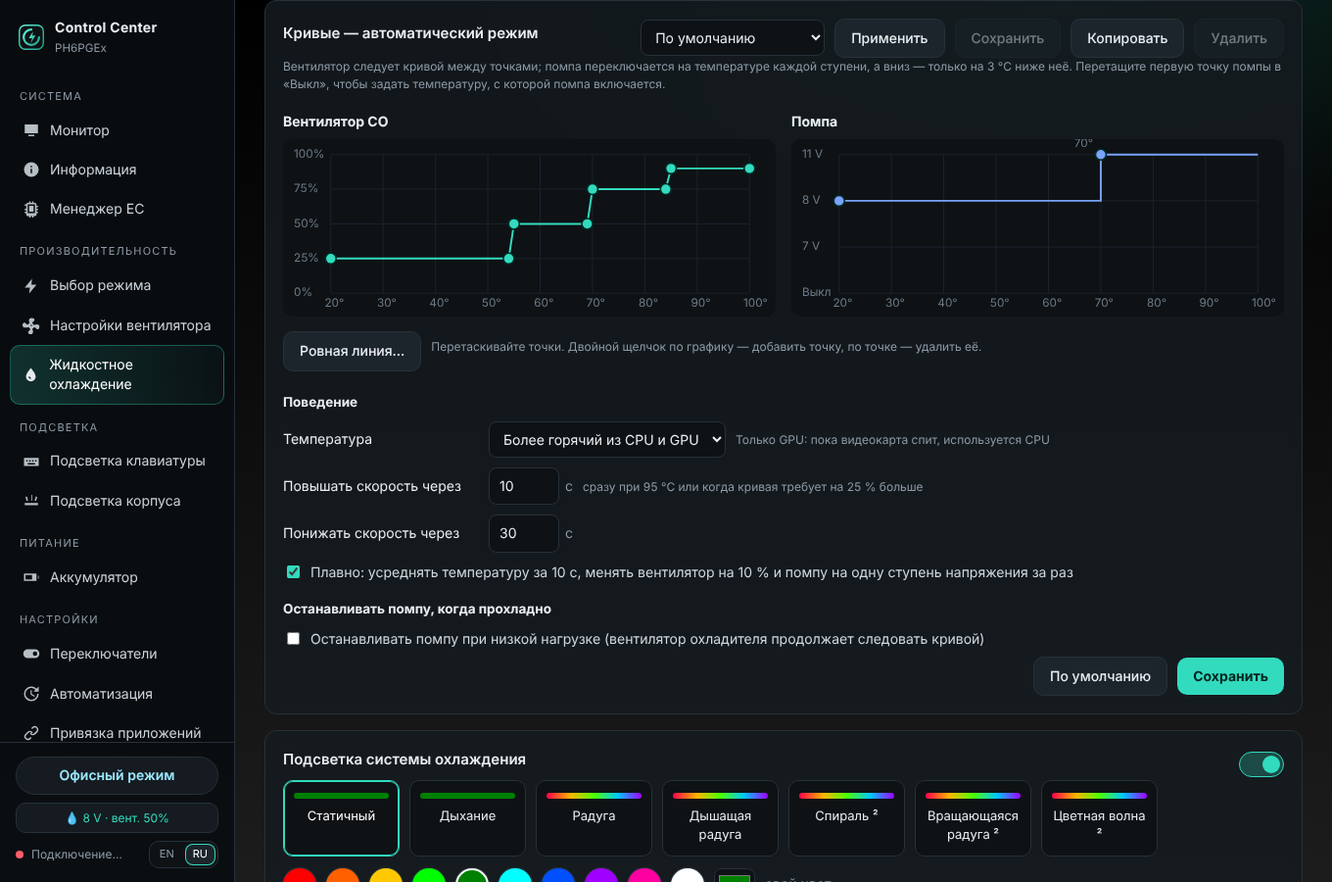
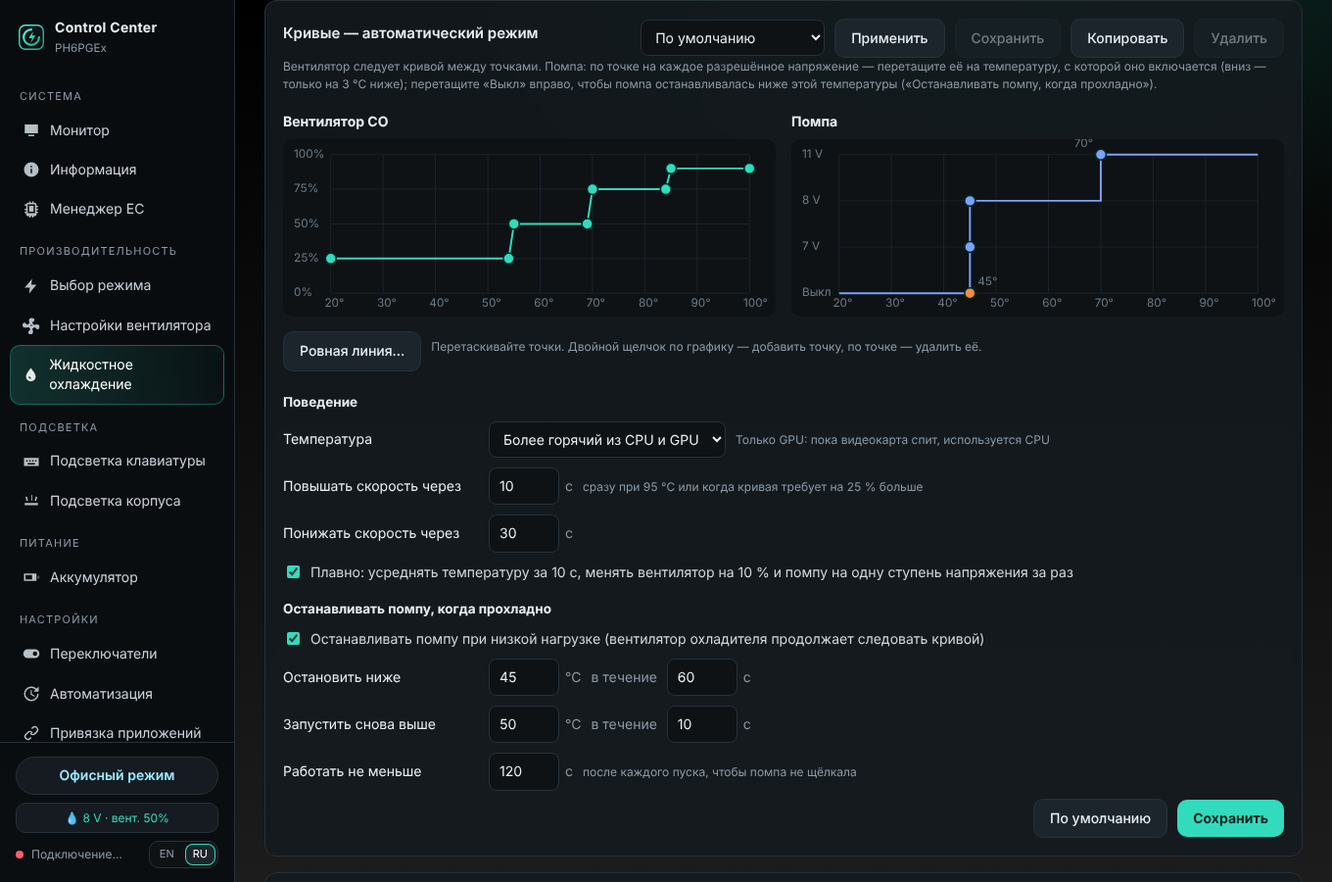
1.6.8: automatic profile switching, liquid cooler curves and profiles, own pump voltage limits

diff --git a/uwccd/web/app.js b/uwccd/web/app.js
@@ -497,7 +497,13 @@ function drawCurve() {
   const col = fanKind === "GPU" ? "var(--gpu)" : "var(--acc)";
   let circles = "";
   pts.forEach(p => { circles += `<circle class="pt ${fanKind === "GPU" ? "gpu" : ""}" data-i="${p.i}" r="7" cx="${CX(Math.max(20, p.i === 0 ? 20 : p.UpT))}" cy="${CY(p.Duty)}"><title>${t("Level")} ${p.i}: ${p.i ? p.UpT + "°C" : t("start")} → ${p.Duty}%</title></circle>`; });
-  svg.innerHTML = g + `<path d="${path}" fill="none" stroke="${col}" stroke-width="2.5"/>` + circles;
+  let dl = "";
+  const dp = curveDrag != null ? pts.find(p => p.i === curveDrag) : null;
+  if (dp) {                                       // while dragging: the point's temperature and speed next to it
+    const x = CX(Math.max(20, dp.i === 0 ? 20 : dp.UpT)), y = CY(dp.Duty), right = x < 170, down = y < 45;
+    dl = `<text class="draglbl" x="${right ? x + 12 : x - 12}" y="${down ? y + 28 : y - 14}" text-anchor="${right ? "start" : "end"}">${dp.i ? dp.UpT + " °C" : t("start")} · ${dp.Duty} %</text>`;
+  }
+  svg.innerHTML = g + `<path d="${path}" fill="none" stroke="${col}" stroke-width="2.5"/>` + circles + dl;
   drawCurveNow();
   // the drag state lives outside drawCurve(): the SVG is re-rendered on every move
   svg.onpointerdown = e => {
@@ -523,7 +529,8 @@ function drawCurve() {
   };
   svg.onpointerup = svg.onpointercancel = e => {
     if (curveDrag != null && svg.hasPointerCapture(e.pointerId)) svg.releasePointerCapture(e.pointerId);
-    curveDrag = null;
+    const was = curveDrag; curveDrag = null;
+    if (was != null) drawCurve();
   };
 }
 // red dot: the fan's current temperature and speed, on the table that is active now (needs full monitoring)
@@ -536,12 +543,18 @@ function drawCurveNow() {
   const temp = gpu ? (m.gpu && !m.gpu.asleep ? m.gpu.temp : null) : m.cpu && m.cpu.temp;
   const duty = gpu ? m.fans.gpu_duty : m.fans.cpu_duty, rpm = gpu ? m.fans.gpu_rpm : m.fans.cpu_rpm;
   if (temp == null || duty == null) return;
-  const x = CX(Math.max(20, Math.min(100, temp))), y = CY(Math.max(0, Math.min(100, duty)));
-  const label = `${temp} °C · ${rpm != null ? rpm + " " + t("rpm") : duty + " %"}`;
+  // the dot lies on the curve at this sensor's temperature; the label has the real speed. When the fan runs clearly
+  // faster than its own curve, the EC drives it by the other side (on many models both fans follow the hotter one).
+  const pts = activePts(); let lvl = pts[0];
+  for (const p of pts) if (p.i === 0 || p.UpT <= temp) lvl = p;
+  const own = lvl ? lvl.Duty : duty;
+  const x = CX(Math.max(20, Math.min(100, temp))), y = CY(Math.max(0, Math.min(100, own)));
+  const by = duty > own + 3 ? " " + t("(driven by {0})", gpu ? "CPU" : "GPU") : "";
+  const label = `${temp} °C · ${rpm != null ? rpm + " " + t("rpm") : duty + " %"}${by}`;
   const c = document.createElementNS("http://www.w3.org/2000/svg", "circle");
   c.setAttribute("class", "now"); c.setAttribute("r", "6"); c.setAttribute("cx", x); c.setAttribute("cy", y);
   const tt = document.createElementNS("http://www.w3.org/2000/svg", "title");
-  tt.textContent = t("Now: {0} °C · {1} %", temp, duty) + (rpm != null ? ` · ${rpm} ${t("rpm")}` : ""); c.append(tt);
+  tt.textContent = t("Now: {0} °C · {1} %", temp, duty) + (rpm != null ? ` · ${rpm} ${t("rpm")}` : "") + by; c.append(tt);
   const tx = document.createElementNS("http://www.w3.org/2000/svg", "text"), left = x > 470, up = y > 246;
   tx.setAttribute("class", "now nowlbl"); tx.setAttribute("x", left ? x - 10 : x + 10); tx.setAttribute("y", up ? y - 12 : y + 22);
   tx.setAttribute("text-anchor", left ? "end" : "start"); tx.textContent = label;
@@ -1306,7 +1319,7 @@ function drawCurves(L) {
   $("#lc-own-label").textContent = t("Own curve for the mode “{0}” (otherwise the common curve)", t(LC_CURVE_NAME[lcTab] || lcTab));
   $("#lc-curves-title").textContent = laptop ? t("Curves — Follow the laptop") : c.mode === "ec" ? t("Curves — view only (Controller: used when the EC publishes no targets)") : t("Curves — Automatic");
   $("#lc-curves-hint").textContent = laptop ? t("The cooler uses the curve of the laptop's current mode (●) if it has its own (✎), otherwise the common curve. The common curve is also the curve of the Automatic mode.")
-    : t("The fan follows the curve between its points; the pump switches at the temperature of each step and goes down only 3 °C below it. Drag the first pump point to Off to set the temperature the pump starts at.");
+    : t("The fan follows the curve between its points. Pump: one point per allowed voltage — drag it to the temperature it starts at (a step down waits until 3 °C below it); drag Off to the right to stop the pump below that temperature (Stop the pump when it is cool).");
   const src = pick ? pick.curves : L.curves;
   const key = own && src[lcTab] ? lcTab : "common";
   const set = JSON.parse(JSON.stringify(src[key] || src.common));
@@ -1370,6 +1383,10 @@ function lcFanAt(set, tc) {
   return f[f.length - 1][1];
 }
 function lcPumpAt(set, tc) { let v = set.pump[0][1]; for (const [t0, v0] of set.pump.slice(1)) if (tc >= t0) v = v0; return v; }
+function lcDragLabel(g, P, x, y, text) {          // while dragging: the point's values next to it
+  const right = x < P.left + 150, down = y < P.top + 30;     // above-left: the curves rise to the right
+  g.append(lcEl("text", { x: right ? x + 12 : x - 12, y: down ? y + 28 : y - 14, class: "draglbl", "text-anchor": right ? "start" : "end" }, text));
+}
 function lcPlot(w, hgt, ymin, ymax) {
   const P = { left: 62, right: 606, top: 20, bot: hgt - 30 };
   P.x = tc => P.left + (tc - LCX0) / (LCX1 - LCX0) * (P.right - P.left);
@@ -1394,13 +1411,16 @@ function lcFanEditor(set, key, readonly, L) {
       d.append(lcEl("title", {}, `${p[0]} °C · ${p[1]} %`));
       dots.append(d);
     });
+    if (lcDrag && lcDrag.svg === svg && pts[lcDrag.i]) {
+      const p = pts[lcDrag.i]; lcDragLabel(dots, P, P.x(Math.max(LCX0, p[0])), P.y(p[1]), `${p[0]} °C · ${p[1]} %`);
+    }
   };
   redraw();
   // the dots are redrawn on every move: the svg itself holds the pointer (as in the laptop fan curve)
   if (!readonly) {
     svg.addEventListener("pointerdown", ev => {
       const c = ev.target.closest && ev.target.closest(".pt"); if (!c) return;
-      ev.preventDefault(); svg.setPointerCapture(ev.pointerId); lcDrag = { i: +c.dataset.i };
+      ev.preventDefault(); svg.setPointerCapture(ev.pointerId); lcDrag = { i: +c.dataset.i, svg };
     });
     svg.addEventListener("pointermove", ev => {
       if (!lcDrag) return;
@@ -1432,63 +1452,94 @@ function lcFanEditor(set, key, readonly, L) {
   });
   return h("div", { class: "lc-ed" }, h("h4", {}, t("Cooler fan")), svg);
 }
+// Pump: one point per allowed voltage (7 / 8 / 11 V, or the own limits), moved only along the temperature: the
+// temperature from which the pump runs at that voltage or more. A voltage whose point sits on the next one is not used.
+// The Off point is "Stop the pump when it is cool": at the left edge it is off; dragged right (30..85 °C) the pump
+// stops below that temperature and starts again a few degrees above it.
+function lcPumpSlots(st, run) {                  // curve steps -> start temperature of every allowed voltage
+  const steps = st.filter(s0 => s0[1]);
+  const slots = run.map(v => { const s0 = steps.find(x => x[1] >= v); return s0 ? Math.max(LCX0, s0[0]) : LCX1; });
+  slots[0] = LCX0;
+  for (let k = 1; k < slots.length; k++) slots[k] = Math.max(slots[k], slots[k - 1]);
+  return slots;
+}
+function lcSlotsToSteps(slots, run) {            // start temperatures -> curve steps (unused voltages dropped)
+  const out = [];
+  run.forEach((v, k) => { if (k === run.length - 1 || slots[k + 1] > slots[k]) out.push([out.length ? slots[k] : 0, v]); });
+  return out;
+}
 function lcPumpEditor(set, key, readonly, L) {
-  const W = 640, H = 230, lv = S.liquid.pump_levels, P = lcPlot(W, H, 0, lv.length - 1), svg = lcSvg(W, H), st = set.pump;
-  const yi = v => lv.indexOf(v);
+  const W = 640, H = 230, run = S.liquid.pump_running || [7, 8, 11], lv = [0, ...run];
+  const P = lcPlot(W, H, 0, lv.length - 1), svg = lcSvg(W, H), yi = v => Math.max(0, lv.indexOf(v));
+  const slots = lcPumpSlots(set.pump, run);
+  const calm = lcCalm || { pump_idle: { ...(S.liquid.config.pump_idle || {}) } }, pi = calm.pump_idle;
+  let off = pi.enabled ? pi.off_below : null;
   lcAxes(svg, P, lv.map((v, i) => [i, v ? `${v} V` : t("Off")]));
   const path = lcEl("polyline", { class: "line pump" + (readonly === true ? " ro" : "") }); svg.append(path);
   const dots = lcEl("g", {}); svg.append(dots);
+  const ro = readonly === true ? " ro" : readonly ? " pv" : "";
   const redraw = () => {
     const xs = [];
-    st.forEach((s0, i) => {
-      const x0 = i === 0 ? LCX0 : Math.max(LCX0, s0[0]), x1 = i < st.length - 1 ? Math.max(LCX0, st[i + 1][0]) : LCX1;
-      if (i) xs.push([x0, yi(st[i - 1][1])]);
-      xs.push([x0, yi(s0[1])], [x1, yi(s0[1])]);
+    const o = off != null ? off : LCX0;
+    if (off != null) xs.push([LCX0, 0], [o, 0]);
+    run.forEach((v, k) => {
+      const a = Math.max(slots[k], o), b = k < run.length - 1 ? Math.max(slots[k + 1], o) : LCX1;
+      if (b > a || k === run.length - 1) { if (xs.length) xs.push([a, xs[xs.length - 1][1]]); xs.push([a, k + 1], [b, k + 1]); }
     });
     path.setAttribute("points", xs.map(([a, b]) => `${P.x(a)},${P.y(b)}`).join(" "));
     dots.innerHTML = "";
-    st.forEach((s0, i) => {
-      const d = lcEl("circle", { cx: P.x(i === 0 ? LCX0 : Math.max(LCX0, s0[0])), cy: P.y(yi(s0[1])), r: 7, class: "pt gpu" + (readonly === true ? " ro" : readonly ? " pv" : "") });
-      const vtxt = s0[1] ? `${s0[1]} V` : t("off");
-      d.dataset.i = i;
-      d.append(lcEl("title", {}, i === 0 ? `${t("from the start")} · ${vtxt}` : `${t("from")} ${s0[0]} °C · ${vtxt}`));
-      if (i) dots.append(lcEl("text", { x: P.x(Math.max(LCX0, s0[0])) - 10, y: P.y(yi(s0[1])) - 10, "text-anchor": "end" }, `${s0[0]}°`));
+    const od = lcEl("circle", { cx: P.x(o), cy: P.y(0), r: 7, class: "pt gpu pt-off" + (off == null ? " idle" : "") + ro });
+    od.dataset.i = "off";
+    od.append(lcEl("title", {}, off == null ? t("Off: drag to the right to stop the pump when it is cool")
+      : t("Off below {0} °C, on again from {1} °C (Stop the pump when it is cool)", off, pi.on_above)));
+    if (off != null) dots.append(lcEl("text", { x: P.x(o) + 10, y: P.y(0) - 10 }, `${off}°`));
+    dots.append(od);
+    run.forEach((v, k) => {
+      const x = Math.max(k ? slots[k] : LCX0, o);
+      const d = lcEl("circle", { cx: P.x(x), cy: P.y(k + 1), r: 7, class: "pt gpu" + (k ? "" : " fixed") + ro });
+      d.dataset.i = k;
+      d.append(lcEl("title", {}, k ? `${v} V ${t("from")} ${slots[k]} °C` : `${v} V ${t("from the start")}`));
+      if (k && slots[k] > Math.max(LCX0, o) && slots[k] < LCX1 && !(lcDrag && lcDrag.svg === svg && +lcDrag.i === k)) dots.append(lcEl("text", { x: P.x(x) - 10, y: P.y(k + 1) - 10, "text-anchor": "end" }, `${slots[k]}°`));
       dots.append(d);
     });
+    if (lcDrag && lcDrag.svg === svg) {
+      if (lcDrag.i === "off") lcDragLabel(dots, P, P.x(o), P.y(0), off == null ? t("Off: never") : t("Off below {0} °C", off));
+      else { const k = +lcDrag.i; lcDragLabel(dots, P, P.x(Math.max(slots[k], o)), P.y(k + 1), `${t("from")} ${slots[k]} °C · ${run[k]} V`); }
+    }
   };
   redraw();
+  const postIdle = () => {
+    const was = S.liquid.config.pump_idle || {}, gap = Math.max(2, (pi.on_above ?? 55) - (pi.off_below ?? 50));
+    const nx = off == null ? { ...pi, enabled: false }
+      : { ...pi, enabled: true, off_below: off, on_above: Math.min(95, off + gap) };
+    Object.assign(pi, nx); if (lcCalm) lcCalm.pump_idle = pi;
+    if (nx.enabled !== !!was.enabled || nx.off_below !== was.off_below || nx.on_above !== was.on_above)
+      lcPost("config", { pump_idle: nx }).then(() => drawCalm(S.liquid));
+  };
   if (!readonly) {
     svg.addEventListener("pointerdown", ev => {
-      const c = ev.target.closest && ev.target.closest(".pt"); if (!c) return;
-      ev.preventDefault(); svg.setPointerCapture(ev.pointerId); lcDrag = { i: +c.dataset.i };
+      const c = ev.target.closest && ev.target.closest(".pt"); if (!c || c.dataset.i === "0") return;
+      ev.preventDefault(); svg.setPointerCapture(ev.pointerId); lcDrag = { i: c.dataset.i, svg };
     });
     svg.addEventListener("pointermove", ev => {
       if (!lcDrag) return;
-      const i = lcDrag.i, s0 = st[i], [mx, my] = lcPointer(svg, ev);
-      if (i) { const lo = st[i - 1][0] + 1, hi = i < st.length - 1 ? st[i + 1][0] - 1 : LCX1; s0[0] = Math.max(lo, Math.min(hi, P.tx(mx))); }
-      // "off" only for the first level: the next step is then where the pump starts (7 V and up)
-      const vlo = i ? Math.max(1, yi(st[i - 1][1])) : 0, vhi = i < st.length - 1 ? yi(st[i + 1][1]) : lv.length - 1;
-      s0[1] = lv[Math.max(vlo, Math.min(vhi, Math.round(P.vy(my))))];
+      const [mx] = lcPointer(svg, ev), tc = Math.max(LCX0, Math.min(LCX1, P.tx(mx)));
+      if (lcDrag.i === "off") off = tc < 30 ? null : Math.min(85, tc);
+      else {
+        const k = +lcDrag.i, hi = k < run.length - 1 ? slots[k + 1] : LCX1;
+        slots[k] = Math.max(slots[k - 1], Math.min(hi, tc));
+      }
       redraw();
     });
-    const end = ev => { if (!lcDrag) return; if (svg.hasPointerCapture(ev.pointerId)) svg.releasePointerCapture(ev.pointerId); lcDrag = null; lcPostCurve(key, set); };
+    const end = ev => {
+      if (!lcDrag) return; if (svg.hasPointerCapture(ev.pointerId)) svg.releasePointerCapture(ev.pointerId);
+      const which = lcDrag.i; lcDrag = null;
+      if (which === "off") postIdle(); else { set.pump = lcSlotsToSteps(slots, run); lcPostCurve(key, set); }
+    };
     svg.addEventListener("pointerup", end); svg.addEventListener("pointercancel", end);
-    dots.addEventListener("dblclick", ev => {
-      const c = ev.target.closest && ev.target.closest(".pt"); if (!c) return;
-      ev.stopPropagation(); const i = +c.dataset.i; if (i && st.length > 1) { st.splice(i, 1); lcPostCurve(key, set); }
-    });
   }
-  if (!readonly) svg.addEventListener("dblclick", ev => {
-    if (st.length >= S.liquid.max_pump_steps) return toast(t("At most {0} steps", S.liquid.max_pump_steps), true);
-    const [mx] = lcPointer(svg, ev); const tc = Math.max(LCX0 + 1, Math.min(LCX1, P.tx(mx)));
-    if (st.some(s0 => s0[0] === tc)) return;
-    const k = st.findIndex(s0 => s0[0] > tc), ins = k < 0 ? st.length : k;
-    const prevV = st[ins - 1][1], nextV = st[ins] ? st[ins][1] : lv[lv.length - 1];
-    const v = lv[Math.max(1, Math.min(yi(nextV), yi(prevV) + 1))];
-    st.splice(ins, 0, [tc, v]); lcPostCurve(key, set);
-  });
   if (L && L.pump != null) lcSensorDots(L).forEach((d, k) => {
-    const v = d.main ? L.pump : lcPumpAt(set, d.temp);
+    const v = d.main ? L.pump : off != null && d.temp < off ? 0 : lcPumpAt(set, d.temp);
     lcCross(svg, P, d.temp, Math.max(0, yi(v)), `${d.who ? d.who + " " : ""}${d.temp} °C · ${v ? v + " V" : t("off")}`, k > 0);
   });
   return h("div", { class: "lc-ed" }, h("h4", {}, t("Pump")), svg);

diff --git a/uwccd/web/i18n.js b/uwccd/web/i18n.js
@@ -832,8 +832,11 @@ Object.assign(RU, {
   "at once from 95 °C or when the curve asks 25 % more": "сразу при 95 °C или когда кривая требует на 25 % больше",
   "Stop the pump at low load (the cooler fan keeps following the curve)": "Останавливать помпу при низкой нагрузке (вентилятор охладителя продолжает следовать кривой)",
   "Now: {0} °C · {1} %": "Сейчас: {0} °C · {1} %",
-  "The fan follows the curve between its points; the pump switches at the temperature of each step and goes down only 3 °C below it. Drag the first pump point to Off to set the temperature the pump starts at.":
-    "Вентилятор следует кривой между точками; помпа переключается на температуре каждой ступени, а вниз — только на 3 °C ниже неё. Перетащите первую точку помпы в «Выкл», чтобы задать температуру, с которой помпа включается.",
+  "The fan follows the curve between its points. Pump: one point per allowed voltage — drag it to the temperature it starts at (a step down waits until 3 °C below it); drag Off to the right to stop the pump below that temperature (Stop the pump when it is cool).":
+    "Вентилятор следует кривой между точками. Помпа: по точке на каждое разрешённое напряжение — перетащите её на температуру, с которой оно включается (вниз — только на 3 °C ниже); перетащите «Выкл» вправо, чтобы помпа останавливалась ниже этой температуры («Останавливать помпу, когда прохладно»).",
+  "(driven by {0})": "(ведёт {0})", "Off: never": "Выкл: никогда", "Off below {0} °C": "Выкл ниже {0} °C",
+  "Off: drag to the right to stop the pump when it is cool": "Выкл: перетащите вправо, чтобы помпа останавливалась, когда прохладно",
+  "Off below {0} °C, on again from {1} °C (Stop the pump when it is cool)": "Выкл ниже {0} °C, снова вкл с {1} °C («Останавливать помпу, когда прохладно»)",
   "Own pump voltage limits": "Свои границы напряжения помпы", "At least one voltage must stay": "Должно остаться хотя бы одно напряжение",
   "Allowed: {0} V (from {1} to {2} V)": "Разрешено: {0} В (от {1} до {2} В)", "Own pump limits on": "Свои границы помпы включены",
   "Pump limits: 7–11 V": "Границы помпы: 7–11 В",

diff --git a/uwccd/web/app.css b/uwccd/web/app.css
@@ -367,3 +367,8 @@ svg.lc-curve .crossdot{fill:#ff4d3d;stroke:#2a0b07;stroke-width:2}
 .au-rule .num{width:72px}
 .badge-on{font-size:11px;padding:2px 8px;border-radius:99px;background:var(--acc);color:#002b25;font-weight:700}
 .btn.sm{padding:4px 9px;font-size:12.5px}
+svg.lc-curve .pt.fixed{cursor:default}
+svg.lc-curve .pt.pt-off{fill:#ff8a3d}
+svg.lc-curve .pt.pt-off.idle{fill:#101418;stroke:#ff8a3d;stroke-width:2.5}
+.curve text.draglbl{fill:#e8f3f1;font-size:13px;font-weight:600;stroke:#101418;stroke-width:3px;paint-order:stroke;pointer-events:none}
+svg.lc-curve text.draglbl{font-size:16px}

diff --git a/tests/test_mock.py b/tests/test_mock.py
@@ -755,15 +755,15 @@ class LiquidCoolerUnit(unittest.TestCase):
                            "curves": {"common": {"fan": [[20, 0], [100, 0]], "pump": [[0, 7]]}}})
         self.assertEqual(self._step(45), (0, 7))
 
-    def test_curve_pump_start_temperature(self):
-        """Pump off below a start temperature, 7 V from it; off again only after the minimum run time."""
+    def test_curve_pump_off_is_pump_idle(self):
+        """The pump is not switched off by a curve any more (the Off point is "Stop the pump when it is cool"):
+        a leading off step is dropped and the first running voltage starts from the beginning."""
         self._fake_clock()
-        self.lc.configure({"pump_idle": {"min_run": 60}})
         self._curve([[20, 30], [100, 30]], [[0, 0], [45, 7], [70, 11]])
-        self.assertEqual(self._step(40, 61)[1], 0)             # the pump ran long enough since the connect
-        self.assertEqual(self._step(46, 1)[1], 7)                 # starts at 45 °C with 7 V
-        self.assertEqual(self._step(40, 10)[1], 7)                # below again, but ran only 10 s
-        self.assertEqual(self._step(40, 61)[1], 0)
+        self.assertEqual(self.lc.status()["curves"]["common"]["pump"], [[0, 7], [70, 11]])
+        self.assertEqual(self._step(40)[1], 7)
+        with self.assertRaises(ValueError):
+            self._curve([[20, 30], [100, 30]], [[0, 0]])
         with self.assertRaises(ValueError):
             self._curve([[20, 30], [100, 30]], [[0, 7], [50, 0]])    # off only below the first running step
 

diff --git a/uwccd/lc_curves.py b/uwccd/lc_curves.py
@@ -85,6 +85,9 @@ def full(curves):
     """All keys present; missing per-mode sets are None."""
     out = {k: None for k in CURVE_KEYS}
     out.update(copy.deepcopy(curves or {}))
+    for k, v in out.items():
+        if v and v.get("pump") and v["pump"][0][1] == 0 and len(v["pump"]) > 1:
+            v["pump"] = drop_off(v["pump"])
     if not out.get("common"):
         out["common"] = copy.deepcopy(BUILTIN_PROFILES[DEFAULT_PROFILE]["curves"]["common"])
     return out
@@ -127,7 +130,17 @@ def check_set(s, where="curve", running=None):
             raise ValueError(f"{where}: the pump can be off only below its first running step")
         out_p.append([t, v])
         last_t, last_v = t, v
-    return {"fan": out_f, "pump": out_p}
+    return {"fan": out_f, "pump": drop_off(out_p, where)}
+
+
+def drop_off(pump, where="curve"):
+    """1.6.8: the pump is switched off by "Stop the pump when it is cool" (the Off point on the chart), not by the
+    curve. A leading off step of an older curve is dropped: the first running voltage starts from the beginning."""
+    if pump and pump[0][1] == 0:
+        if len(pump) == 1:
+            raise ValueError(f"{where}: the pump curve needs a running voltage")
+        pump = [[0, pump[1][1]]] + [list(p) for p in pump[2:]]
+    return pump
 
 
 def check_curves(curves, base=None, running=None):

diff --git a/docs/FEATURES.md b/docs/FEATURES.md
@@ -81,7 +81,7 @@ the system sleeps the cooler is put to sleep. Needs `python3-bleak` (installed b
 | Feature | How |
 |---|---|
 | Modes, first row: **Automatic** (curves by CPU/GPU temperature), **Follow the laptop** (curve of the laptop's mode), **Controller** (EC targets), **Manual**; second row: High 90 %/11 V, Medium 50 %/8 V, Low 25 %/7 V, Off | fan `0x1B`, pump `0x1C` |
-| **Curves** (1.6.8): a fan curve (2..17 points, linear between them) and pump steps (off / 7 / 8 / 11 V, down only 3 °C below a step; *off* as the first level sets the temperature the pump starts at), edited by dragging; a red dot shows the current temperature and value. One **common** curve (Automatic, and Follow the laptop for modes without their own); in Follow the laptop each mode — Office, Gaming, Turbo, Custom — can have **its own curve**; a change of the laptop's mode switches the curve at once (the fan still ramps) | |
+| **Curves** (1.6.8): a fan curve (2..17 points, linear between them) and pump steps (one draggable point per allowed voltage, down only 3 °C below a step; the *Off* point is *Stop the pump when it is cool*), edited by dragging; a red dot shows the current temperature and value. One **common** curve (Automatic, and Follow the laptop for modes without their own); in Follow the laptop each mode — Office, Gaming, Turbo, Custom — can have **its own curve**; a change of the laptop's mode switches the curve at once (the fan still ramps) | |
 | **Own pump voltage limits** (after a risk warning): choose which of 7 / 8 / 11 / 12 V may be used — the cooler firmware knows only these and cannot report what a pump supports; a voltage outside the choice becomes the nearest allowed one in every mode | |
 | **Controller** mode: the curves are shown but cannot be edited (the EC drives the cooler; the common curve is used only when the EC publishes no targets) | |
 | **Cooler profiles**: Default (factory steps), Quiet, Balanced, Performance and your own (Apply / Save / Copy / Remove) — a profile holds the common and the per-mode curves | |
@@ -104,9 +104,10 @@ uwccctl lc prime                     # filling cycle
 ```
 
 The built-in curves start at 8 V: on some units the flow does not hold at 7 V and the cooler switches itself off
-(the OEM service never goes below 8 V either). 7 V is still available on a curve and by hand. A curve has no 12 V. With
-*Off* as its first level the pump starts at the next step and stops below it (3 °C lower) only after the minimum run
-time of *Stop the pump when it is cool* (120 s by default).
+(the OEM service never goes below 8 V either). 7 V is still available on a curve and by hand. A curve has no 12 V (only with own
+pump limits). The pump is stopped by *Stop the pump when it is cool* — the *Off* point on the pump chart: dragged to a
+temperature, the pump stops below it (after the minimum run time, 120 s by default) and starts again a few degrees
+above it; at the left edge it is off.
 
 **Update from 1.6.7 or older:** the temperature tiers become the common curve with the same behaviour, and the old
 fixed duties of *Follow the laptop* (Office 40 %, Gaming 60 %, Turbo / Custom 90 %, pump 11 V) become flat curves of

diff --git a/CHANGELOG.md b/CHANGELOG.md
@@ -9,7 +9,10 @@
   first that held long enough is applied; while one is active, App binding and the power-source settings do not
   change the mode. Templates, reordering; `uwccctl rules [list|export|import|enable|disable|clear]`.
 - **Fan settings: a red dot shows the fan's current temperature and speed** on the curve of the active table
-  (CPU or GPU, with full monitoring), labelled with the temperature and the rpm.
+  (CPU or GPU, with full monitoring): it lies on the curve at the sensor's temperature, the label has the real rpm.
+  When the fan runs clearly faster than its own curve, the label says *(driven by CPU / GPU)* — on many models the EC
+  runs both fans by the hotter side.
+- **Dragging a point** on any chart (fan settings, cooler fan, pump, Off) shows its temperature and value next to it.
 - **Fan settings: the *Off, °C* row is hidden.** The return to the lower level follows the next level's *On* by
   itself (keeping the distance the table had); *Show the return temperatures* brings the row back.
 - **Liquid cooling: curves instead of temperature tiers.**
@@ -22,9 +25,11 @@
     still ramps. The Controller mode falls back to the common curve when the EC publishes no targets.
   - Kept: temperature averaging, up / down delays, ramping, flow guard, emergency rise (95 °C, or the curve asking
     25 % more at once), pump stop when cool. A curve has no 12 V.
-  - **Pump start temperature:** the first pump level can be *Off*; the next step (7 V or more), dragged to any
-    temperature, is where the pump starts. Below it again (3 °C hysteresis) the pump stops, but not before it ran the
-    minimum run time of *Stop the pump when it is cool* (120 s by default).
+  - **Pump chart:** one point per allowed voltage (7 / 8 / 11 V, or the own limits), moved along the temperature —
+    where that voltage starts; a voltage whose point sits on the next one is not used. The **Off** point is *Stop the
+    pump when it is cool*: at the left edge it is off; dragged right (30..85 °C) the pump stops below that temperature
+    (after the minimum run time) and starts again a few degrees above it. The pump curve itself has no Off level any
+    more (an older curve's leading Off step is dropped).
   - **Cooler profiles:** Default (the factory steps of 1.6.7), Quiet, Balanced, Performance and your own — Apply / Save /
     Copy / Remove (a profile holds the common and the per-mode curves); a profile picked in the list is shown on the
     charts before Apply; `uwccctl lc profile …`.

diff --git a/docs/CLI.md b/docs/CLI.md
@@ -158,7 +158,7 @@ Automatic profile switching (power / temperature / load): `rules` (list and stat
 | `lc mode auto\|laptop\|ec\|manual\|high\|medium\|low\|off` | mode |
 | `lc manual FAN PUMP` | fan 0..100 %, pump 7/8/11/12 V (0 = off) |
 | `lc curve [KEY]` | show the curves; KEY `common` (Automatic, and Follow the laptop by default) or `office` `gaming` `turbo` `custom` |
-| `lc curve KEY fan T:D ... [pump T:V ...]` | set a curve: fan 2..17 points (°C:%), pump 1..4 steps (from °C:V, 0/7/8/11 V; 0 = off, only as the first: e.g. `pump 0:0 45:7 70:11`) |
+| `lc curve KEY fan T:D ... [pump T:V ...]` | set a curve: fan 2..17 points (°C:%), pump 1..4 steps (from °C:V, 7/8/11 V: e.g. `pump 0:7 50:8 70:11`); the pump is stopped by `lc idle` (the Off point) |
 | `lc curve KEY flat FAN [PUMP]` / `lc curve MODE off` | a flat curve / the mode uses the common curve |
 | `lc profile [list\|apply ID\|save ID\|copy NAME\|remove ID\|rename ID NAME]` | cooler profiles (built-in: default, quiet, balanced, performance) |
 | `lc tiers BELOW:FAN:PUMP ...` | old tier form (1.6.7), becomes the common curve |
